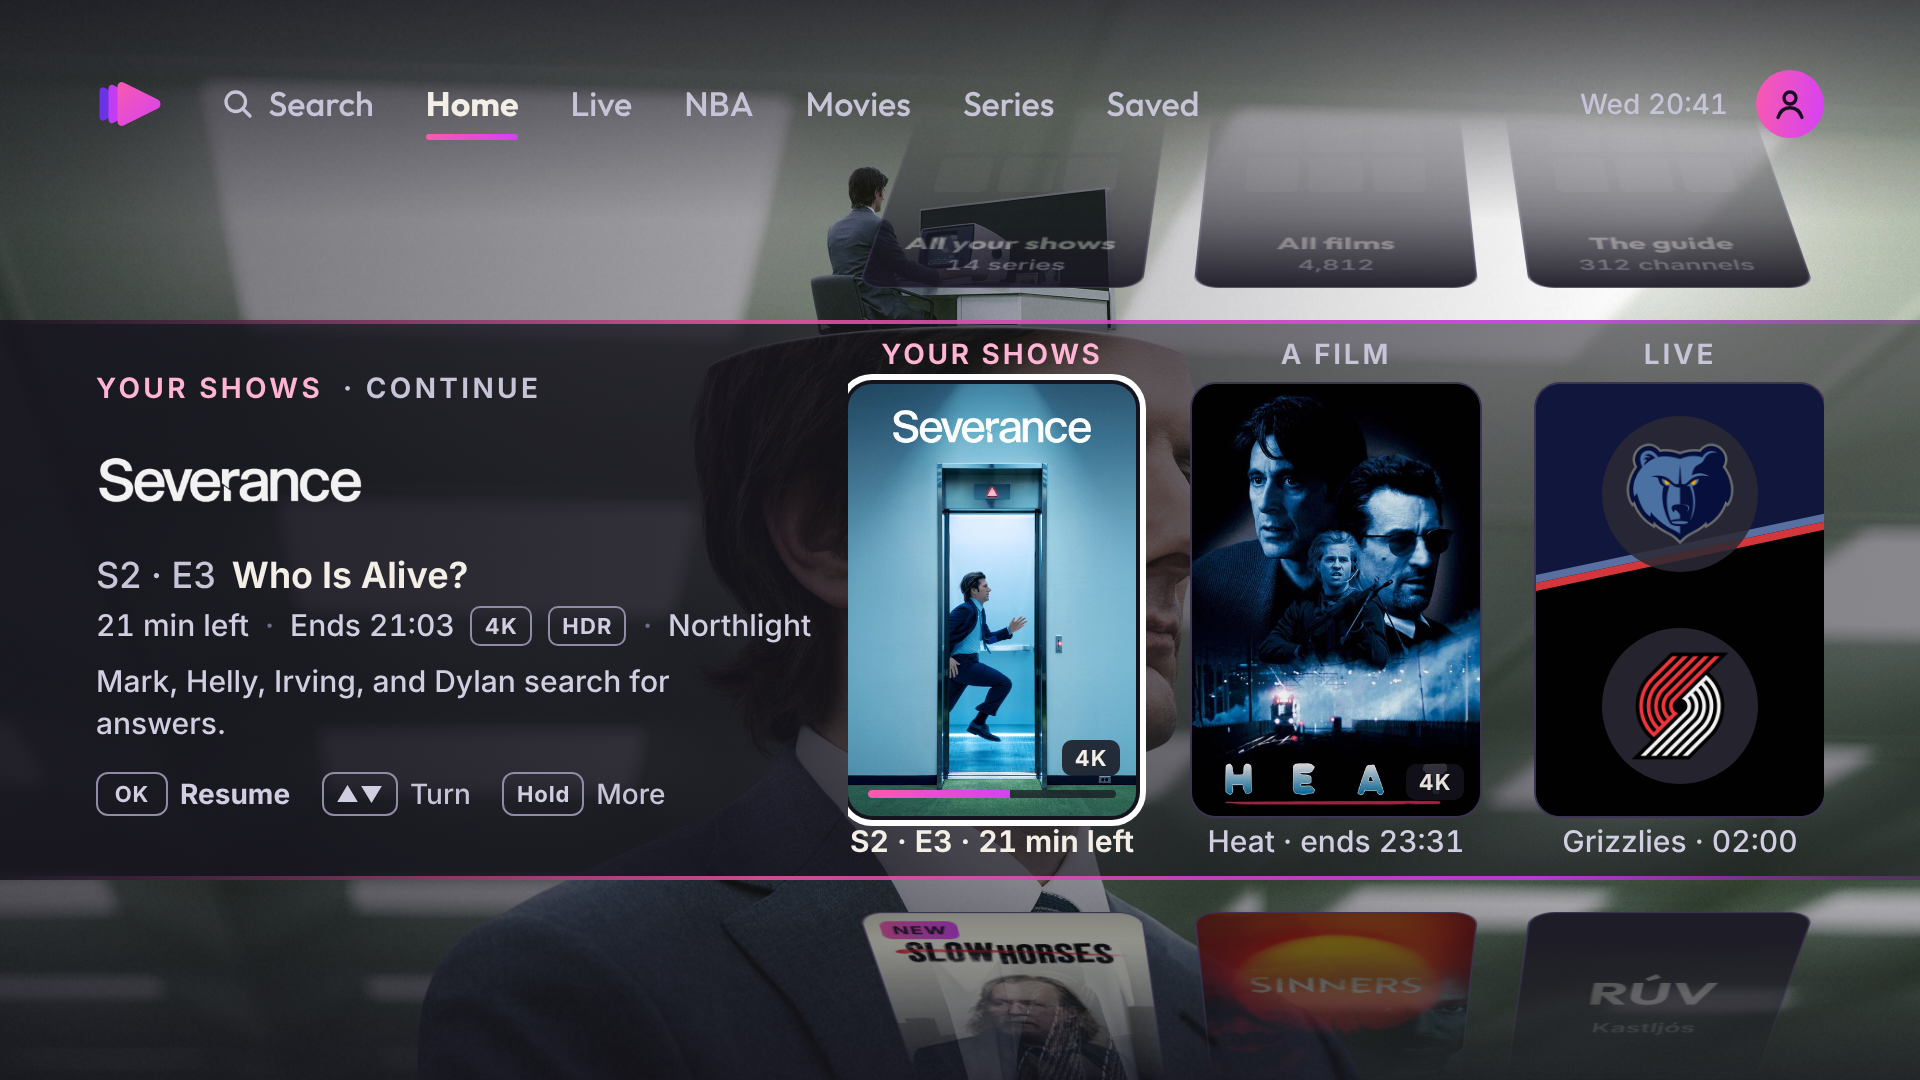
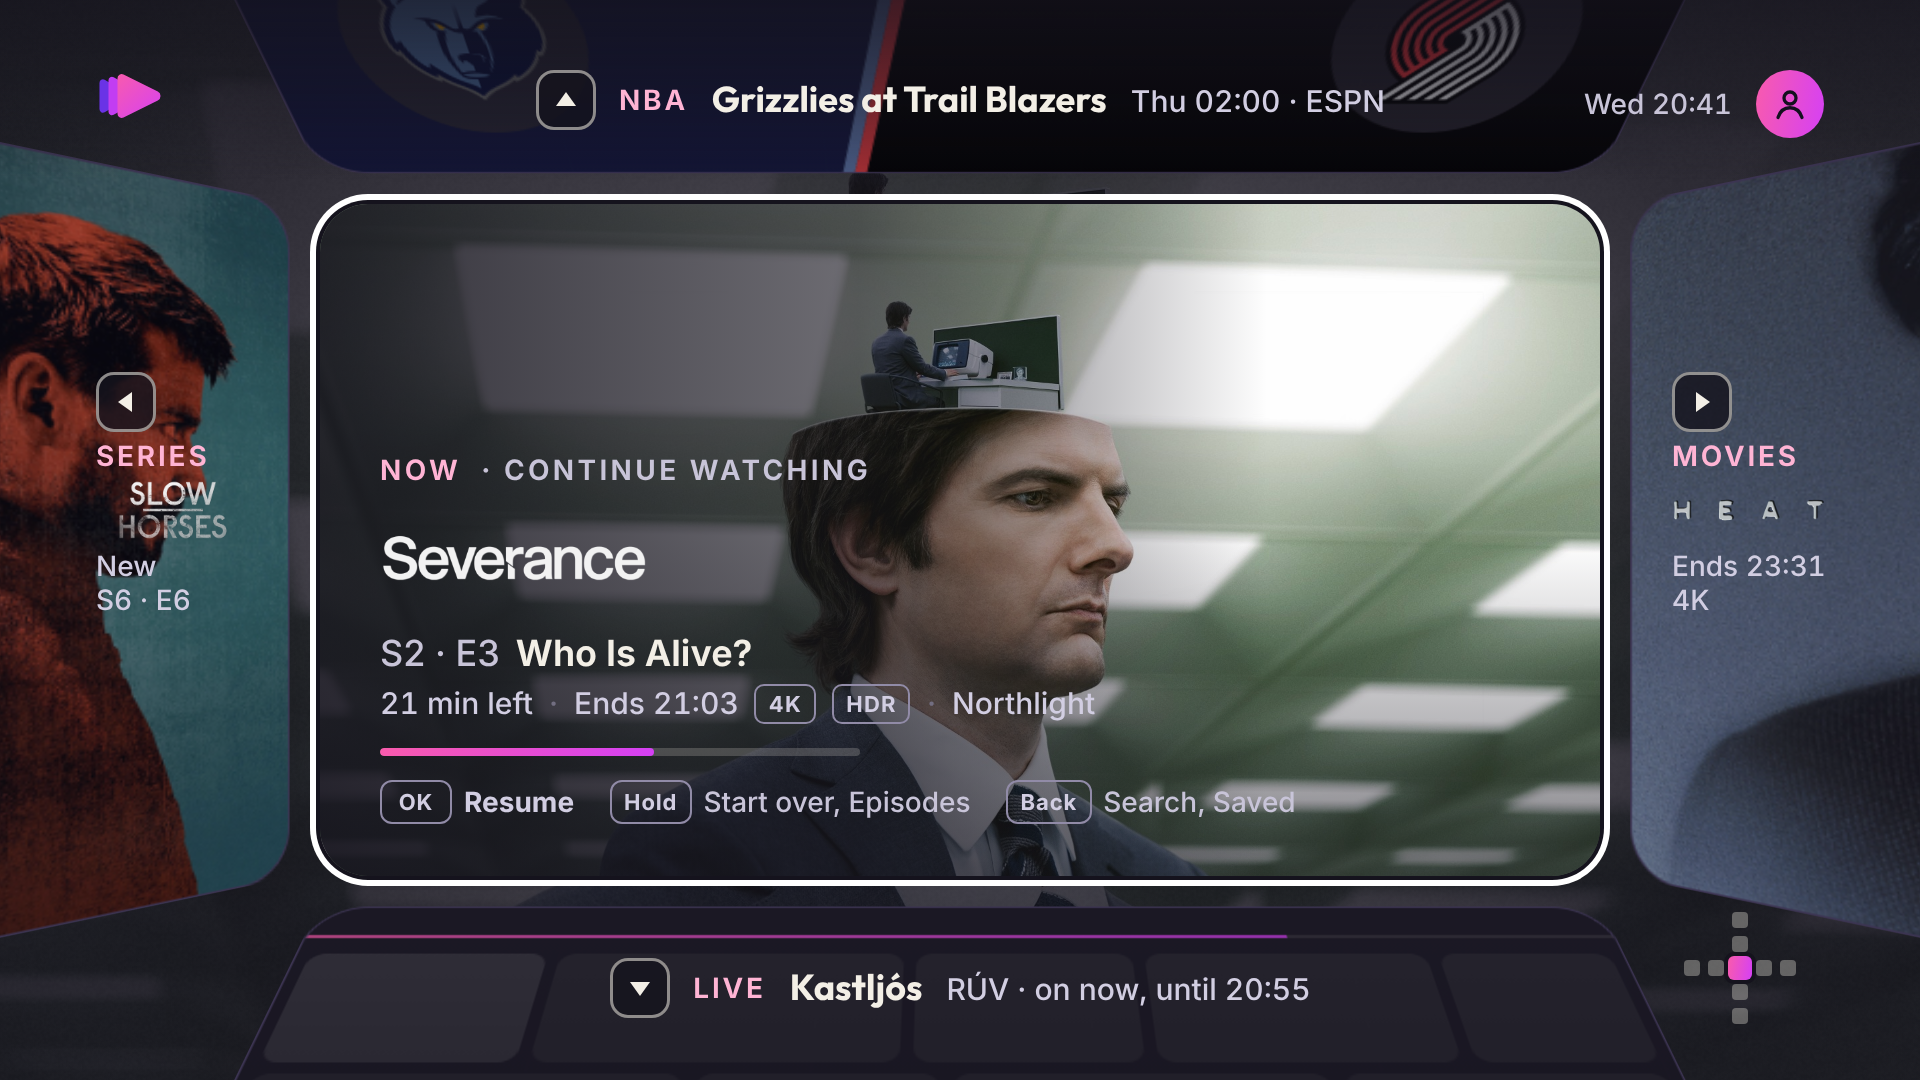
Home direction E (Compass): work in progress, the evening mock (the junction room)

diff --git a/design/ui-v1/home-directions/e-compass/compass.css b/design/ui-v1/home-directions/e-compass/compass.css
@@ -1,0 +1,126 @@
+/* airglow Home direction E: Compass. Canvas 960 x 540, safe x 48-912, y 27-513.
+   Home is a map, and the screen is the remote's D-pad: the thing to do now in the middle (OK), and one road in each
+   direction (Up NBA, Right Movies, Down Live, Left Series). You always see the frame you are on and the edge of the
+   next frame in every direction. Moving = the map slides by one frame (one transform on .map; only transform and
+   opacity animate). */
+html, body { margin: 0; width: 960px; height: 540px; overflow: hidden; background: var(--a-bg-0); color: var(--a-text-1); font-family: var(--a-font-text); -webkit-font-smoothing: antialiased; }
+.screen { position: relative; width: 960px; height: 540px; overflow: hidden; background: var(--a-bg-0); }
+.screen > * { position: absolute; }
+
+/* ---- the room: the centre frame's own picture, dimmed, behind everything (the "airglow" of the frame) ---- */
+.room { inset: 0; }
+.room img { width: 960px; height: 540px; object-fit: cover; object-position: var(--pos, 50% 40%); display: block; opacity: .34; }
+.room::after { content: ""; position: absolute; inset: 0; background: radial-gradient(closest-side, rgba(21,19,29,0), rgba(21,19,29,.7)); }
+.grain { inset: 0; background: url("../../../../app/tv/brand/sprites/grain.png"); opacity: .5; pointer-events: none; }
+
+/* ---- the frames: 640 x 336, 24 px apart; the centre one at 160,102 ---- */
+.f { position: absolute; width: 640px; height: 336px; border-radius: 24px; overflow: hidden; background: var(--a-surface-1); box-shadow: 0 0 0 1px var(--a-border); }
+.f > img.art { position: absolute; inset: 0; width: 100%; height: 100%; object-fit: cover; object-position: var(--pos, 50% 35%); display: block; }
+.f.c { left: 160px; top: 102px; box-shadow: var(--a-focus-ring); }
+.f.w { left: -504px; top: 102px; }
+.f.e { left: 824px;  top: 102px; }
+.f.n { left: 160px; top: -258px; }
+.f.s { left: 160px; top: 462px; }
+.f .veil { position: absolute; inset: 0; background: var(--a-bg-0); opacity: .5; }
+
+/* the centre frame: the picture, a scrim from the bottom-left, the readout */
+.f.c .sc { position: absolute; inset: 0; background: linear-gradient(90deg, rgba(21,19,29,.88) 0, rgba(21,19,29,.62) 42%, rgba(21,19,29,0) 74%), linear-gradient(0deg, rgba(21,19,29,.55) 0, rgba(21,19,29,0) 50%); }
+.ro { position: absolute; left: 30px; bottom: 26px; width: 420px; }
+.ey { font: 650 14px/16px var(--a-font-text); letter-spacing: .12em; text-transform: uppercase; color: var(--a-pink-text); display: flex; align-items: center; gap: 10px; white-space: nowrap; }
+.ey .dim { color: var(--a-text-3); }
+.ro .logo { display: block; height: 52px; max-width: 300px; width: auto; object-fit: contain; object-position: left center; margin: 10px 0 10px; }
+.ro .logo.chalk { filter: brightness(0) invert(.95); }   /* a black Cinemeta logo, baked to chalk once in the app */
+.ro .name { font: 700 34px/38px var(--a-font-display); letter-spacing: -.01em; margin: 8px 0 8px; white-space: nowrap; }
+.ro .ep { font: 650 18px/23px var(--a-font-text); color: var(--a-text-1); white-space: nowrap; margin-bottom: 4px; }
+.ro .ep span { color: var(--a-text-3); font-weight: 500; margin-right: 8px; }
+.meta { display: flex; align-items: center; gap: 8px; font: 500 15px/20px var(--a-font-text); color: var(--a-text-2); white-space: nowrap; font-variant-numeric: tabular-nums; }
+.meta .dot { color: var(--a-text-4); }
+.line { margin-top: 6px; font: 500 15px/21px var(--a-font-text); color: var(--a-text-2); max-width: 400px; display: -webkit-box; -webkit-line-clamp: 2; -webkit-box-orient: vertical; overflow: hidden; }
+.bar { width: 240px; height: 4px; border-radius: 2px; background: rgba(243,239,230,.2); margin-top: 12px; overflow: hidden; }
+.bar i { display: block; height: 100%; width: var(--p, 40%); background: var(--a-grad); border-radius: 2px; }
+.hint { display: flex; gap: 18px; margin-top: 12px; font: 500 14px/18px var(--a-font-text); color: var(--a-text-3); white-space: nowrap; }
+.hint > span { display: inline-flex; align-items: center; }
+.hint b { font-weight: 700; color: var(--a-text-2); }
+.k { display: inline-flex; align-items: center; justify-content: center; min-width: 22px; height: 20px; padding: 0 6px; border: 1.5px solid var(--a-border-strong); border-radius: 6px; font: 700 11px/1 var(--a-font-text); color: var(--a-text-2); margin-right: 6px; letter-spacing: .04em; }
+.badge { display: inline-flex; align-items: center; height: 18px; padding: 0 6px; border-radius: 5px; border: 1.5px solid var(--a-border-strong); font: 700 11px/1 var(--a-font-text); letter-spacing: .06em; color: var(--a-text-2); text-transform: uppercase; }
+.live { display: inline-flex; align-items: center; gap: 6px; height: 20px; padding: 0 9px; border: 2px solid var(--a-live); border-radius: 999px; color: var(--a-live-text); background: var(--a-live-soft); font: 700 11px/1 var(--a-font-text); letter-spacing: .12em; text-transform: uppercase; }
+.live::before { content: ""; width: 7px; height: 7px; border-radius: 50%; background: var(--a-live); }
+.eyeoff { width: 14px; height: 14px; fill: none; stroke: currentColor; stroke-width: 2; stroke-linecap: round; }
+
+/* ---- the signposts: what is one press away, written on the edge of the next frame ---- */
+.sp { position: absolute; display: flex; flex-direction: column; gap: 4px; z-index: 3; }
+.sp .dk { display: inline-flex; align-items: center; justify-content: center; width: 30px; height: 30px; border-radius: 9px; background: rgba(21,19,29,.82); box-shadow: inset 0 0 0 1.5px rgba(243,239,230,.55); }
+.sp .dk svg { width: 12px; height: 12px; fill: var(--a-text-1); }
+.sp .rd { font: 650 14px/16px var(--a-font-text); letter-spacing: .1em; text-transform: uppercase; color: var(--a-pink-text); white-space: nowrap; }
+.sp .tt { font: 700 17px/20px var(--a-font-display); color: var(--a-text-1); }
+.sp .lg { display: block; height: 30px; max-width: 80px; width: auto; object-fit: contain; object-position: left center; }
+.sp .mm { font: 500 14px/17px var(--a-font-text); color: var(--a-text-2); font-variant-numeric: tabular-nums; }
+/* left and right: stacked in the 80 px of safe area the side frames show */
+.sp.w { left: 48px; top: 186px; width: 84px; }
+.sp.e { left: 836px; top: 186px; width: 78px; }
+/* up and down: one line across the strip */
+.sp.n, .sp.s { left: 160px; width: 640px; flex-direction: row; align-items: center; justify-content: center; gap: 12px; white-space: nowrap; }
+.sp.n { top: 30px; height: 40px; }
+.sp.s { top: 476px; height: 36px; }
+.sp.n .tt, .sp.s .tt { font-size: 18px; }
+.sp.n .mm, .sp.s .mm { font-size: 15px; }
+.sp .lg.h { height: 26px; max-width: 120px; }
+
+/* the strips' own scrims keep the one line readable on any picture */
+.f.n .veil, .f.s .veil { opacity: .62; }
+.f.w .veil, .f.e .veil { opacity: .55; }
+
+/* ---- the chrome that stays: the mark, the clock, the account ---- */
+.mk { left: 48px; top: 34px; height: 28px; width: auto; z-index: 4; }
+.tb-r { right: 48px; top: 32px; height: 40px; display: flex; align-items: center; gap: 12px; font: 500 14px/18px var(--a-font-text); color: var(--a-text-3); font-variant-numeric: tabular-nums; z-index: 4; }
+.avatar { width: 34px; height: 34px; border-radius: 50%; background: var(--a-grad); display: grid; place-items: center; }
+.avatar svg { width: 18px; height: 18px; fill: none; stroke: var(--a-ink); stroke-width: 2.2; stroke-linecap: round; }
+.top-dim { left: 0; right: 0; top: 0; height: 90px; background: linear-gradient(180deg, rgba(21,19,29,.6), rgba(21,19,29,0)); z-index: 2; }
+
+/* ---- the little map: where you are on the cross ---- */
+.mini { left: 838px; top: 452px; width: 64px; height: 64px; z-index: 4; }
+.mini i { position: absolute; width: 8px; height: 8px; border-radius: 2px; background: rgba(243,239,230,.34); }
+.mini i.here { width: 12px; height: 12px; margin: -2px; border-radius: 3px; background: var(--a-grad); box-shadow: 0 0 0 2px var(--a-bg-0); }
+.mini i.lane { background: rgba(243,239,230,.16); }
+
+/* ---- game night: the fields, the crests, the plate ---- */
+.fields { position: absolute; inset: 0; }
+.fields .a { position: absolute; inset: 0; background: var(--away); }
+.fields .h { position: absolute; top: 0; bottom: 0; left: var(--split, 60%); right: -300px; background: var(--home); transform: skewX(-12deg); transform-origin: top; }
+.fields .e { position: absolute; top: 0; bottom: 0; left: var(--split, 60%); width: 12px; transform: skewX(-12deg); transform-origin: top; }
+.fields .e i { position: absolute; top: 0; bottom: 0; width: 6px; }
+.fields .e i:first-child { left: 0; background: var(--away-a); }
+.fields .e i:last-child { right: 0; background: var(--home-a); }
+.crest { position: absolute; width: var(--s, 150px); height: var(--s, 150px); border-radius: 50%; background: rgba(45,43,53,.86); display: grid; place-items: center; }
+.crest img { width: 72%; height: 72%; object-fit: contain; display: block; }
+.plate { display: inline-flex; align-items: center; gap: 10px; height: 36px; padding: 0 16px; transform: skewX(-12deg); background: rgba(21,19,29,.92); border-radius: 6px; }
+.plate > * { transform: skewX(12deg); }
+.plate .s { font: 600 15px/18px var(--a-font-text); color: var(--a-text-2); white-space: nowrap; display: flex; align-items: center; gap: 8px; }
+.since { display: inline-flex; align-items: center; height: 36px; padding: 0 16px; transform: skewX(-12deg); background: var(--a-grad); border-radius: 6px; }
+.since > * { transform: skewX(12deg); }
+.since .q { font: italic 800 24px/1 var(--a-font-live); color: var(--a-ink); letter-spacing: .01em; font-variant-numeric: tabular-nums; }
+.since .c2 { font: 650 12px/14px var(--a-font-text); color: var(--a-ink); letter-spacing: .1em; text-transform: uppercase; margin-left: 10px; opacity: .85; }
+
+/* a channel has no programme art: its frame is the guide's own now-line */
+.f.chan { background: var(--a-bg-1); }
+.f.chan .now { position: absolute; left: 0; right: 0; top: 18px; height: 2px; background: rgba(243,239,230,.12); }
+.f.chan .now i { display: block; height: 100%; width: var(--p, 50%); background: var(--a-grad); }
+
+/* ---- the junction in depth: the four neighbours stand at the centre frame's edges like the walls of a room,
+        so you see each neighbour whole (foreshortened) and the centre is the wall you face ---- */
+.map { position: absolute; inset: 0; perspective: 760px; perspective-origin: 480px 270px; transform-style: preserve-3d; }
+.map.room3d .f.w { left: -496px; transform-origin: 100% 50%; transform: rotateY(var(--wall, 58deg)); }
+.map.room3d .f.e { left: 816px;  transform-origin: 0 50%;    transform: rotateY(calc(-1 * var(--wall, 58deg))); }
+.map.room3d .f.n { top: -250px;  transform-origin: 50% 100%; transform: rotateX(calc(-1 * var(--wall, 58deg))); }
+.map.room3d .f.s { top: 454px;   transform-origin: 50% 0;    transform: rotateX(var(--wall, 58deg)); }
+/* depth shading: each wall is lit from the centre frame and falls off toward its far edge */
+.map.room3d .f.w .veil { opacity: 1; background: linear-gradient(270deg, rgba(21,19,29,.30) 0, rgba(21,19,29,.86) 100%); }
+.map.room3d .f.e .veil { opacity: 1; background: linear-gradient(90deg, rgba(21,19,29,.30) 0, rgba(21,19,29,.86) 100%); }
+.map.room3d .f.n .veil { opacity: 1; background: linear-gradient(0deg, rgba(21,19,29,.30) 0, rgba(21,19,29,.88) 100%); }
+.map.room3d .f.s .veil { opacity: 1; background: linear-gradient(180deg, rgba(21,19,29,.30) 0, rgba(21,19,29,.88) 100%); }
+/* the Live floor is the guide itself: the channel's row of programme cells and the now-line */
+.f.chan .cells { position: absolute; left: 0; right: 0; top: 30px; display: grid; grid-template-columns: 1.1fr 1.6fr 1fr 1.3fr .8fr; gap: 6px; padding: 0 6px; }
+.f.chan .cells i { height: 64px; border-radius: 8px; background: var(--a-surface-1); }
+.f.chan .cells i.on { background: var(--a-surface-2); }
+.f.chan .cells.r2 { top: 100px; grid-template-columns: 1.6fr .9fr 1.4fr 1.2fr; }
+.f.chan .cells.r3 { top: 170px; grid-template-columns: .9fr 1.3fr 1.6fr 1fr; }

diff --git a/design/ui-v1/home-directions/e-compass/evening.html b/design/ui-v1/home-directions/e-compass/evening.html
@@ -1,59 +1,44 @@
 <!doctype html>
 <html lang="en"><head><meta charset="utf-8"><meta name="viewport" content="width=960,height=540">
-<title>Dials: a normal evening</title>
-<link rel="stylesheet" href="../../../../app/tv/brand/fonts.css"><link rel="stylesheet" href="../../../../app/tv/brand/tokens.css"><link rel="stylesheet" href="dials.css">
-<!-- Wed 28 Oct, 20:41. Focus: the Your shows dial, set to Severance S2 E3 (21 of 49 min left). Every dial is at its first option. -->
+<title>Compass: a normal evening</title>
+<meta name="tl" content="Wed 28 Oct 20:41 · centre: Severance S2 E3 (21 of 49 min left) · Up NBA: Grizzlies at Trail Blazers Thu 02:00 · Right Movies: Heat · Down Live: Kastljós on RÚV · Left Series: Slow Horses S6 E6 (new)">
+<link rel="stylesheet" href="../../../../app/tv/brand/fonts.css"><link rel="stylesheet" href="../../../../app/tv/brand/tokens.css"><link rel="stylesheet" href="compass.css">
 </head><body><div class="screen">
-<div class="bd" style="--pos:70% 30%"><img src="art/severance-bg.jpg" alt=""></div>
-<div class="sx"></div><div class="sy"></div><div class="st"></div><div class="grain"></div>
+<div class="room" style="--pos:70% 30%"><img src="art/severance-bg.jpg" alt=""></div>
+<div class="grain"></div>
 
-<div class="topbar"><img class="mk" src="../../../../app/tv/brand/assets/mark-small.svg" alt="">
-  <div class="tabs"><span class="tab"><svg class="ic" viewBox="0 0 24 24"><circle cx="10.5" cy="10.5" r="6.5"/><path d="M20 20l-4.9-4.9"/></svg>Search</span><span class="tab sel">Home</span><span class="tab">Live</span><span class="tab">NBA</span><span class="tab">Movies</span><span class="tab">Series</span><span class="tab">Saved</span></div>
-  <div class="tb-r"><span>Wed 20:41</span><span class="avatar"><svg viewBox="0 0 24 24"><circle cx="12" cy="8" r="4"/><path d="M4 21c1.4-4.4 4.4-6.5 8-6.5s6.6 2.1 8 6.5"/></svg></span></div>
-</div>
-
-<div class="window"></div>
-<div class="readout">
-  <div class="ey">Your shows <span class="dim">· Continue</span></div>
-  <img class="logo chalk" src="art/severance-logo.png" alt="Severance">
-  <div class="ep"><span>S2 · E3</span>Who Is Alive?</div>
-  <div class="meta"><span>21 min left</span><span class="dot">·</span><span>Ends 21:03</span><span class="badge">4K</span><span class="badge">HDR</span><span class="dot">·</span><span>Northlight</span></div>
-  <div class="line">Mark, Helly, Irving, and Dylan search for answers.</div>
-  <div class="hint"><span><span class="k">OK</span><b>Resume</b></span><span><span class="k">▲▼</span>Turn</span><span><span class="k">Hold</span>More</span></div>
-</div>
-
-<div class="dials">
-  <div class="dial on" style="--x:0px">
-    <div class="dh">Your shows</div>
-    <div class="drum"><div class="cyl" style="--spin:0">
-      <div class="c d1 door" style="--i:-1"><div class="dg"><i></i><i></i><i></i><i></i><i></i><i></i></div><div class="dt">All your shows</div><div class="dn">14 series</div><div class="veil"></div></div>
-      <div class="c d0 focus" style="--i:0"><img class="art" src="art/severance-poster.jpg" alt=""><span class="tag q">4K</span><div class="pbar" style="--p:57%"><i></i></div></div>
-      <div class="c d1" style="--i:1"><img class="art" src="art/slowhorses-poster.jpg" alt=""><span class="tag new">New</span><div class="veil"></div></div>
-      <div class="c d2" style="--i:2"><img class="art" src="art/breakingbad-poster.webp" alt=""><div class="veil"></div></div>
-    </div></div>
-    <div class="dcap">S2 · E3 · 21 min left</div>
+<div class="map room3d">
+  <!-- up: NBA -->
+  <div class="f n" style="--away:#12173F;--away-a:#5D76A9;--home:#000;--home-a:#E03A3E">
+    <div class="fields" style="--split:52%"><div class="a"></div><div class="h"></div><div class="e"><i></i><i></i></div></div><div class="crest" style="--s:110px;left:40px;top:200px"><img src="art/mem.png" alt=""></div><div class="crest" style="--s:110px;left:490px;top:200px"><img src="art/por.png" alt=""></div><div class="veil"></div>
   </div>
-  <div class="dial" style="--x:172px">
-    <div class="dh">A film</div>
-    <div class="drum"><div class="cyl" style="--spin:0">
-      <div class="c d1 door" style="--i:-1"><div class="dg"><i></i><i></i><i></i><i></i><i></i><i></i></div><div class="dt">All films</div><div class="dn">4,812</div><div class="veil"></div></div>
-      <div class="c d0" style="--i:0"><img class="art" src="art/heat-poster.webp" alt=""><span class="tag q" style="bottom:8px">4K</span><div class="veil"></div></div>
-      <div class="c d1" style="--i:1"><img class="art" src="art/sinners-poster.webp" alt=""><div class="veil"></div></div>
-      <div class="c d2" style="--i:2"><img class="art" src="art/onebattle-poster.webp" alt=""><div class="veil"></div></div>
-    </div></div>
-    <div class="dcap">Heat · ends 23:31</div>
-  </div>
-  <div class="dial" style="--x:344px">
-    <div class="dh">Live</div>
-    <div class="drum"><div class="cyl" style="--spin:0">
-      <div class="c d1 door" style="--i:-1"><div class="dg"><i></i><i></i><i></i><i></i><i></i><i></i></div><div class="dt">The guide</div><div class="dn">312 channels</div><div class="veil"></div></div>
-      <div class="c d0 game" style="--i:0; --away:#12173F; --away-a:#5D76A9; --home:#000000; --home-a:#E03A3E">
-        <div class="f2"></div><div class="fe"><i></i><i></i></div>
-        <div class="cr a"><img src="art/mem.png" alt=""></div><div class="cr h"><img src="art/por.png" alt=""></div><div class="veil"></div></div>
-      <div class="c d1 chan" style="--i:1"><div class="wm">RÚV</div><div class="pg">Kastljós</div><div class="veil"></div></div>
-      <div class="c d2 chan" style="--i:2"><div class="wm it">ESPN</div><div class="pg">SportsCenter</div><div class="veil"></div></div>
-    </div></div>
-    <div class="dcap">Grizzlies · 02:00</div>
+  <!-- left: Series -->
+  <div class="f w" style="--pos:30% 30%"><img class="art" src="art/slowhorses-bg.jpg" alt=""><div class="veil"></div></div>
+  <!-- right: Movies -->
+  <div class="f e" style="--pos:20% 30%"><img class="art" src="art/heat-bg.jpg" alt=""><div class="veil"></div></div>
+  <!-- down: Live -->
+  <div class="f s chan" style="--p:75%"><div class="now"><i></i></div><div class="cells"><i class="on"></i><i></i><i></i><i></i><i></i></div><div class="cells r2"><i></i><i></i><i></i><i></i></div><div class="cells r3"><i></i><i></i><i></i><i></i></div><div class="veil"></div></div>
+  <!-- the centre: now -->
+  <div class="f c" style="--pos:78% 30%"><img class="art" src="art/severance-bg.jpg" alt=""><div class="sc"></div>
+    <div class="ro">
+      <div class="ey">Now <span class="dim">· Continue watching</span></div>
+      <img class="logo chalk" src="art/severance-logo.png" alt="Severance">
+      <div class="ep"><span>S2 · E3</span>Who Is Alive?</div>
+      <div class="meta"><span>21 min left</span><span class="dot">·</span><span>Ends 21:03</span><span class="badge">4K</span><span class="badge">HDR</span><span class="dot">·</span><span>Northlight</span></div>
+      <div class="bar" style="--p:57%"><i></i></div>
+      <div class="hint"><span><span class="k">OK</span><b>Resume</b></span><span><span class="k">Hold</span>Start over, Episodes</span><span><span class="k">Back</span>Search, Saved</span></div>
+    </div>
   </div>
 </div>
+<div class="top-dim"></div>
+
+<div class="sp n"><span class="dk"><svg viewBox="0 0 12 12"><path d="M6 2l5 7H1z"/></svg></span><span class="rd">NBA</span><span class="tt">Grizzlies at Trail Blazers</span><span class="mm">Thu 02:00 · ESPN</span></div>
+<div class="sp w"><span class="dk"><svg viewBox="0 0 12 12"><path d="M2 6l7-5v10z"/></svg></span><span class="rd">Series</span><img class="lg" src="art/slowhorses-logo.png" alt="Slow Horses"><span class="mm">New<br>S6 · E6</span></div>
+<div class="sp e"><span class="dk"><svg viewBox="0 0 12 12"><path d="M10 6L3 1v10z"/></svg></span><span class="rd">Movies</span><img class="lg" src="art/heat-logo.png" alt="Heat"><span class="mm">Ends 23:31<br>4K</span></div>
+<div class="sp s"><span class="dk"><svg viewBox="0 0 12 12"><path d="M6 10l5-7H1z"/></svg></span><span class="rd">Live</span><span class="tt">Kastljós</span><span class="mm">RÚV · on now, until 20:55</span></div>
+
+<img class="mk" src="../../../../app/tv/brand/assets/mark-small.svg" alt="">
+<div class="tb-r"><span>Wed 20:41</span><span class="avatar"><svg viewBox="0 0 24 24"><circle cx="12" cy="8" r="4"/><path d="M4 21c1.4-4.4 4.4-6.5 8-6.5s6.6 2.1 8 6.5"/></svg></span></div>
+
+<div class="mini"><i style="left:28px;top:4px"></i><i style="left:28px;top:16px"></i><i style="left:4px;top:28px"></i><i style="left:16px;top:28px"></i><i class="here" style="left:28px;top:28px"></i><i style="left:40px;top:28px"></i><i style="left:52px;top:28px"></i><i style="left:28px;top:40px"></i><i style="left:28px;top:52px"></i></div>
 </div></body></html>
